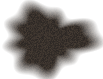
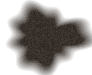
0.11.4: campfire from ChatGPT with its own flame animation

diff --git a/tools/import_art.py b/tools/import_art.py
@@ -1,5 +1,6 @@
 #!/usr/bin/env python3
-"""Imports a generated picture (art/incoming/<name>.png, object on a flat magenta background) into the mod:
+"""Imports a generated picture (art/incoming/<name>.png, object on a flat magenta background, or already
+transparent) into the mod:
 cuts the background out (soft edge without a magenta fringe; a darker magenta cast shadow becomes a soft
 black shadow),
 crops to the object and writes the entity sprite and the 64 px icon.
@@ -26,6 +27,16 @@ PX_PER_TILE = 64
 
 def key(path):
     w, h, px = png_io.read(path)
+    edge = [px[y][x][3] for y in (0, h - 1) for x in range(0, w, 7)] + [px[y][x][3] for x in (0, w - 1) for y in range(0, h, 7)]
+    if sum(1 for a in edge if a < 16) > 0.9 * len(edge):  # already transparent (ChatGPT): keep its alpha
+        box = [w, h, 0, 0]
+        for y in range(h):
+            for x in range(w):
+                if px[y][x][3] > 128:
+                    box = [min(box[0], x), min(box[1], y), max(box[2], x), max(box[3], y)]
+        return [[p if p[3] else (0, 0, 0, 0) for p in row] for row in px], box
+    if all(max(p[:3]) - min(p[:3]) < 12 and min(p[:3]) > 200 for p in (px[2][2], px[2][w - 3], px[h - 3][2], px[h - 3][w - 3])):
+        return flood(w, h, px)
     border = [px[y][x] for y in (0, h - 1) for x in range(0, w, 7)] + [px[y][x] for x in (0, w - 1) for y in range(0, h, 7)]
     bg = tuple(statistics.median(p[i] for p in border) for i in range(3))
     # Unmixing by chroma: `s` is how much of a pixel is the magenta background. The rest is the object.
@@ -48,6 +59,54 @@ def key(path):
                 box = [min(box[0], x), min(box[1], y), max(box[2], x), max(box[3], y)]
         out.append(row)
     return out, box
+
+
+def flood(w, h, px):
+    """A white or drawn checkerboard "transparent" background (ChatGPT): everything light and grey that is
+    connected to the border is background; the pixels next to it get half alpha for a soft edge."""
+    def is_bg(p):
+        return max(p[:3]) - min(p[:3]) < 14 and min(p[:3]) > 195
+    bg = [[False] * w for _ in range(h)]
+    stack = [(x, y) for x in range(w) for y in (0, h - 1)] + [(x, y) for y in range(h) for x in (0, w - 1)]
+    while stack:
+        x, y = stack.pop()
+        if 0 <= x < w and 0 <= y < h and not bg[y][x] and is_bg(px[y][x]):
+            bg[y][x] = True
+            stack += [(x + 1, y), (x - 1, y), (x, y + 1), (x, y - 1)]
+    out, box = [], [w, h, 0, 0]
+    for y in range(h):
+        row = []
+        for x in range(w):
+            if bg[y][x]:
+                row.append((0, 0, 0, 0))
+                continue
+            edge = any(0 <= x + dx < w and 0 <= y + dy < h and bg[y + dy][x + dx] for dx, dy in ((1, 0), (-1, 0), (0, 1), (0, -1)))
+            row.append(px[y][x][:3] + (128 if edge else 255,))
+            box = [min(box[0], x), min(box[1], y), max(box[2], x), max(box[3], y)]
+        out.append(row)
+    return out, box
+
+
+def fire_sheet(path, cols, rows, width_tiles):
+    """A generated grid of flame frames -> an animation sheet: every cell scaled so the flame is
+    `width_tiles` wide, the faint haze around the flames dropped. Returns frame size and the sheet."""
+    w, h, px = png_io.read(path)
+    cw, ch = w // cols, h // rows
+    cells = [[r[c * cw:(c + 1) * cw] for r in px[k * ch:(k + 1) * ch]] for k in range(rows) for c in range(cols)]
+    widths = []
+    for cell in cells:
+        xs = [x for row in cell for x, p in enumerate(row) if p[3] > 128]
+        widths.append(max(xs) - min(xs) if xs else cw)
+    flame_w = sorted(widths)[len(widths) // 2]
+    fw = round(cw * width_tiles * PX_PER_TILE / flame_w)
+    fh = round(ch * fw / cw)
+    frames = []
+    for cell in cells:
+        clean = [[(r, g, b, 0 if a <= 40 or (a < 230 and (max(r, g, b) - min(r, g, b)) < 0.35 * max(r, g, b, 1)) else a)
+                  for r, g, b, a in row] for row in cell]  # no pale haze: only the coloured flame
+        frames.append(resized(cw, ch, clean, fw, fh)[2])
+    sheet = [[p for f in frames[k * cols:(k + 1) * cols] for p in f[y]] for k in range(rows) for y in range(fh)]
+    return fw, fh, sheet
 
 
 def crop(out, box):
@@ -168,6 +227,8 @@ states = [sys.argv[i + 1] for i, a in enumerate(sys.argv) if a == "--state"]
 incoming = os.path.join(ROOT, "art", "incoming")
 main, box = key(os.path.join(incoming, name + ".png"))
 keyed = {"": main}
+fire = "fire" in states
+states = [st for st in states if st != "fire"]
 for st in states:
     keyed["-" + st], other = key(os.path.join(incoming, name + "-" + st + ".png"))
     box = [min(box[0], other[0]), min(box[1], other[1]), max(box[2], other[2]), max(box[3], other[3])]
@@ -200,4 +261,10 @@ if "--ground" in sys.argv:
     png_io.write(os.path.join(out_dir, name + "-ground.png"), gw, gh, ground(gw, gh, gw * cx))
     sizes[name + "-ground"] = (gw, gh)
     print(f"{name}-ground: {gw}x{gh}")
+if fire:  # art/incoming/<name>-fire.png: a 4x4 grid of flame frames
+    flame_tiles = float(sys.argv[sys.argv.index("--fire") + 1]) if "--fire" in sys.argv else 0.5
+    fw, fh, sheet = fire_sheet(os.path.join(incoming, name + "-fire.png"), 4, 4, flame_tiles)
+    png_io.write(os.path.join(out_dir, name + "-fire.png"), fw * 4, fh * 4, sheet)
+    sizes[name + "-fire"] = (fw, fh)
+    print(f"{name}-fire: 16 frames of {fw}x{fh}")
 record_sizes(sizes)

diff --git a/tools/art_preview.py b/tools/art_preview.py
@@ -30,8 +30,24 @@ m = re.search(r'\["%s"\] = \{shift = \{([-\d.]+), ([-\d.]+)\}' % re.escape(name)
 if m:
     shift = (float(m.group(1)) * T, float(m.group(2)) * T)
 
+fire = load(os.path.join(d, f"{name}-fire.png"))
+fire_shift = (0, -0.5 * T)
+m = re.search(r'\["%s"\] = \{.*?fire_shift = \{([-\d.]+), ([-\d.]+)\}' % re.escape(name), open(os.path.join(ROOT, "prototypes", "art.lua")).read(), re.S)
+if m:
+    fire_shift = (float(m.group(1)) * T, float(m.group(2)) * T)
+
+
+def fire_frame(k):
+    fw, fh = len(fire[0]) // 4, len(fire) // 4
+    x0, y0 = (k % 4) * fw, (k // 4) * fh
+    return [r[x0:x0 + fw] for r in fire[y0:y0 + fh]]
+
+
 panels = [("lab", None)] + ([("idle", idle)] if idle else []) + [("working", main)]
-P = 5 * T
+if fire:
+    panels = [p for p in panels if p[0] != "lab"] + [("working", main, 6), ("working", main, 12)]
+    panels[len(panels) - 3] = ("working", main, 0)
+P = (5 if not fire else 2) * T
 W, H = P * len(panels), P
 img = [[grass[y % T][x % T][:3] for x in range(W)] for y in range(H)]
 
@@ -51,7 +67,7 @@ def paste(px, cx, cy):
                 img[Y][X] = tuple(int(c * A + oc * (1 - A)) for c, oc in zip((r, g, b), o))
 
 
-for k, (kind, px) in enumerate(panels):
+for k, (kind, px, *frame) in enumerate(panels):
     cx, cy = k * P + P / 2, P / 2
     if kind == "lab":
         paste(lab, cx, cy)
@@ -61,6 +77,8 @@ for k, (kind, px) in enumerate(panels):
         paste(idle or main, cx + shift[0], cy + shift[1])
         if kind == "working" and idle:
             paste(main, cx + shift[0], cy + shift[1])
+        if kind == "working" and fire:
+            paste(fire_frame(frame[0]), cx + fire_shift[0], cy + fire_shift[1])
     for y in range(H):
         img[y][k * P] = (25, 25, 25)
 os.makedirs(os.path.join(ROOT, "art", "preview"), exist_ok=True)

diff --git a/CHANGELOG.md b/CHANGELOG.md
@@ -2,6 +2,11 @@
 
 Изменения для игроков — в `changelog.txt` (формат Factorio). Здесь — история проекта.
 
+## 0.11.4 — 2026-09-25
+- Костёр из ChatGPT: три картинки (погасший, горящий, 16 кадров пламени). `import_art.py` понимает
+  настоящую прозрачность, нарисованную «шахматку» и белый фон (заливка от края), режет сетку пламени
+  на кадры и убирает бледную дымку; `art.lua` берёт своё пламя вместо ванильного.
+
 ## 0.11.3 — 2026-09-25
 - Графика одной командой: `tools/art.sh <name> <клетки>` — конвертация, вырезка фона, тень, иконка,
   превью рядом с ванильной лабораторией (`art/preview/`), список в `art/manifest.txt`. Здания с
